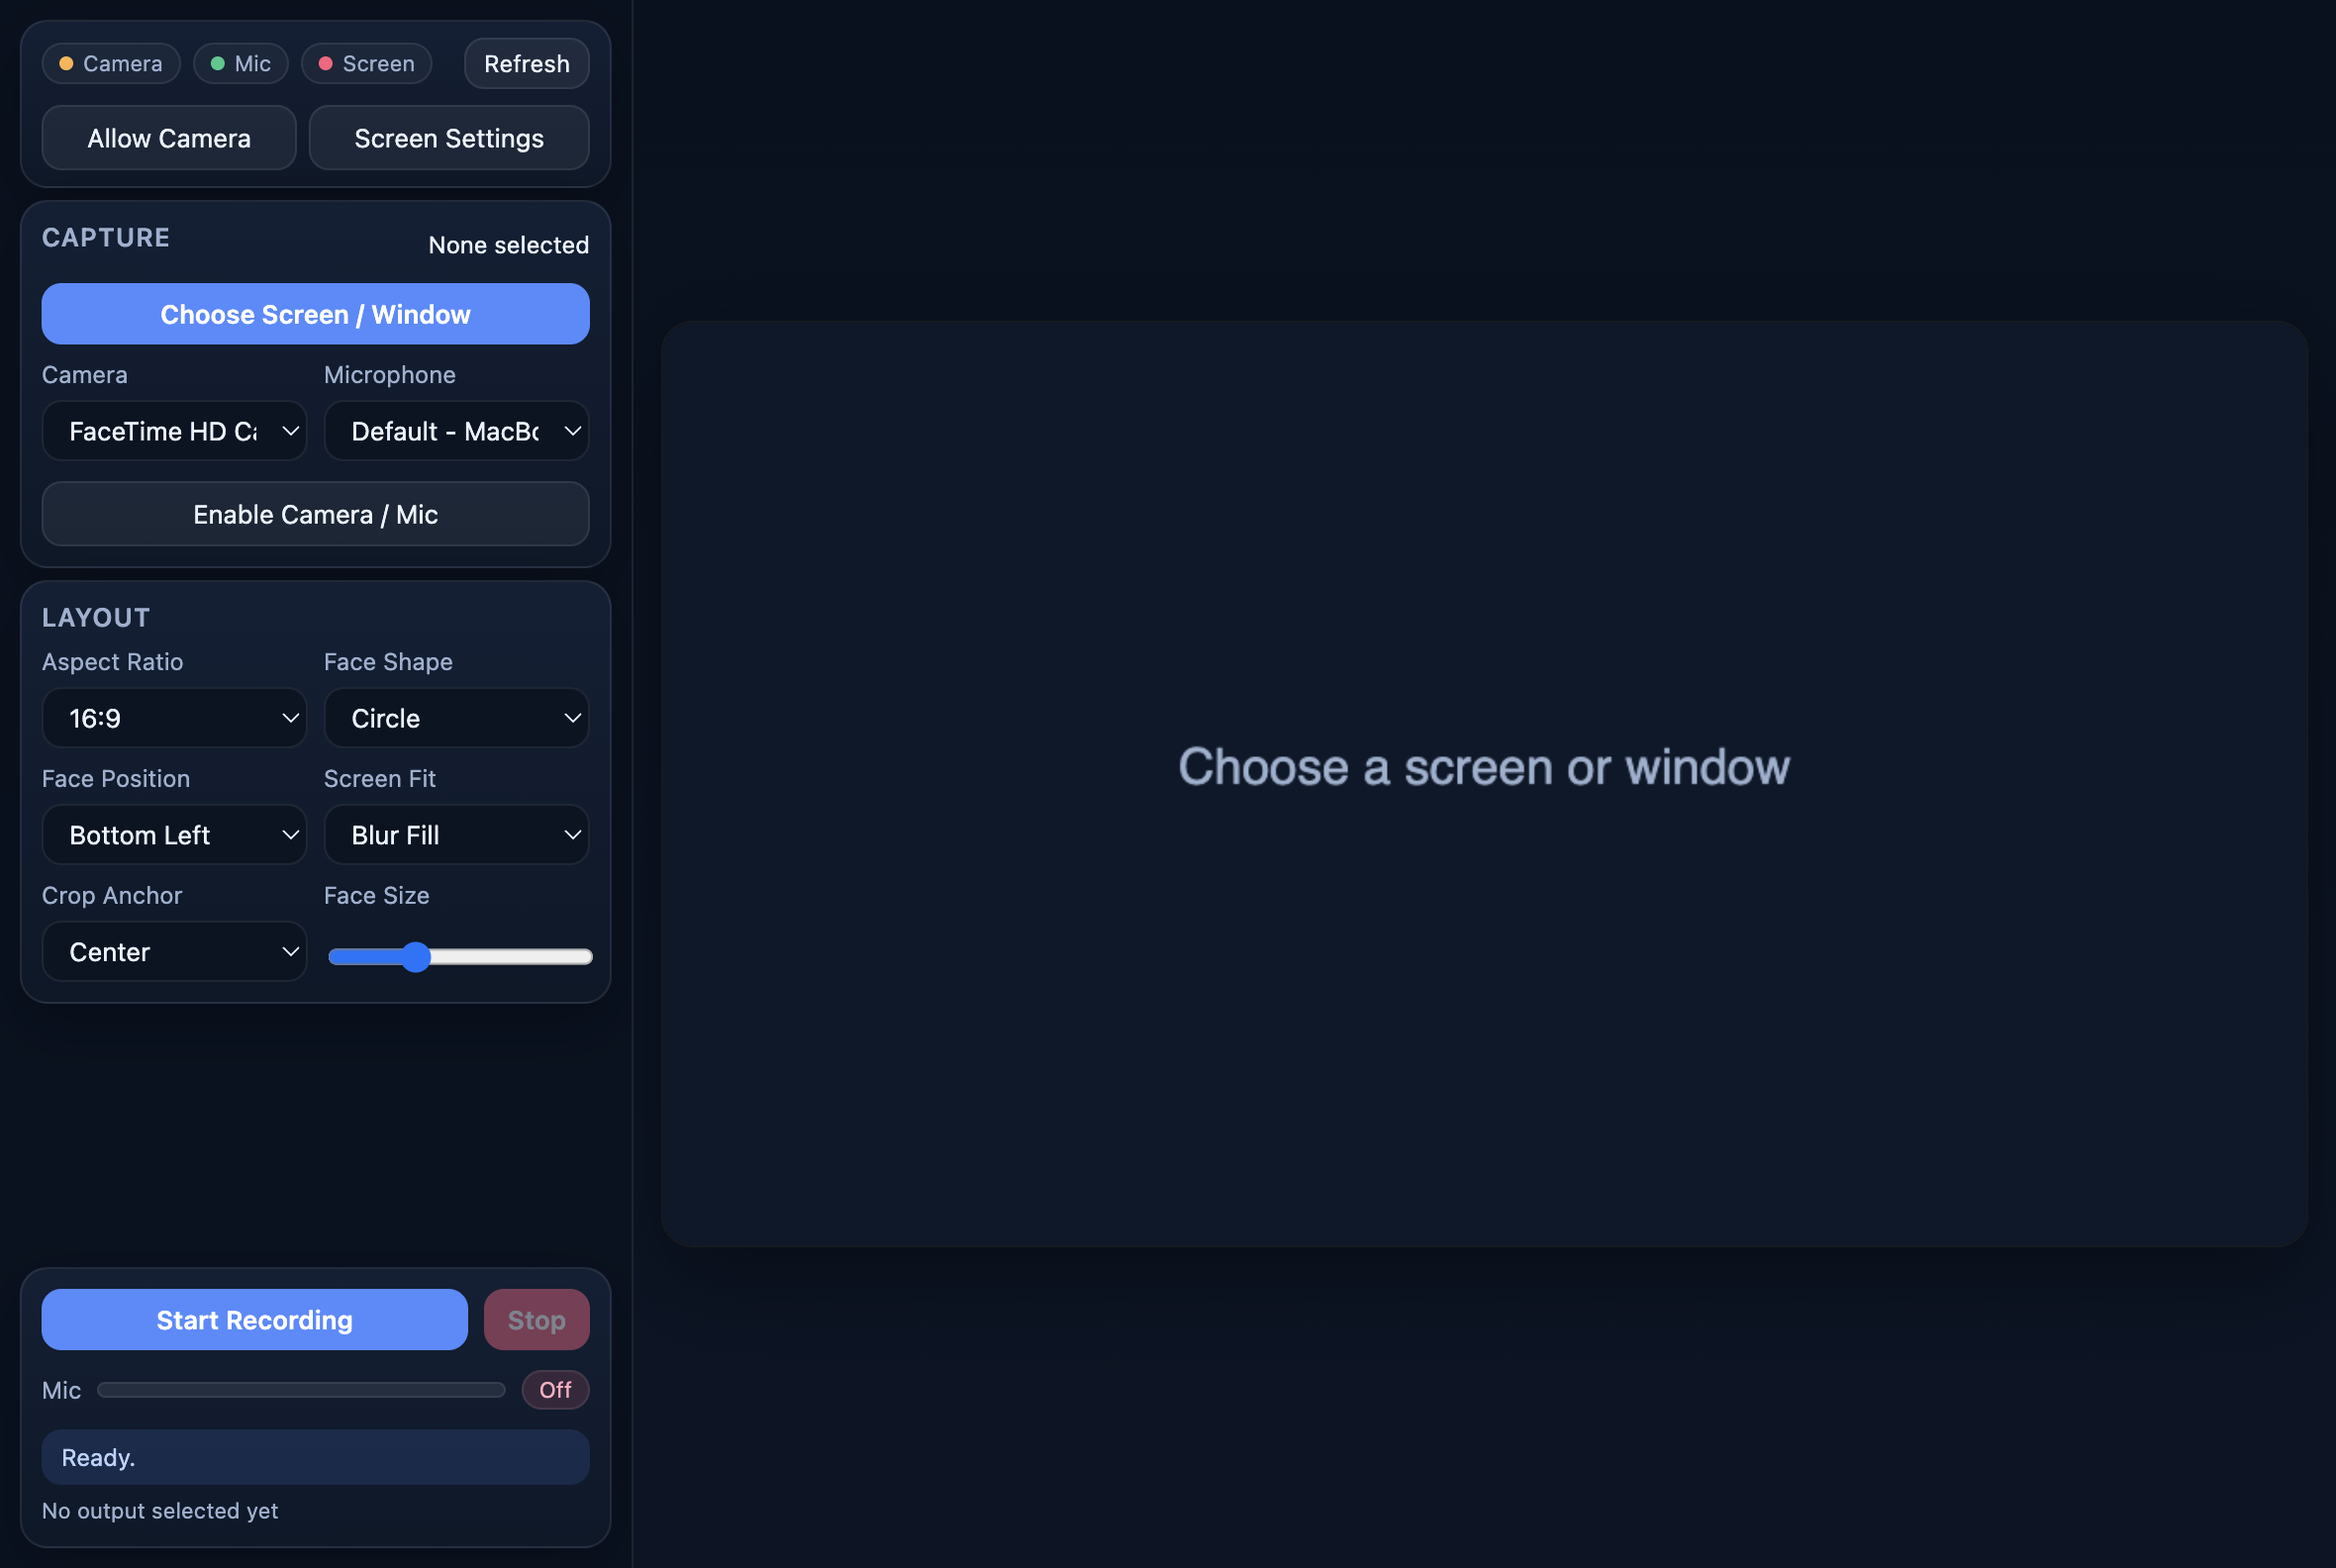
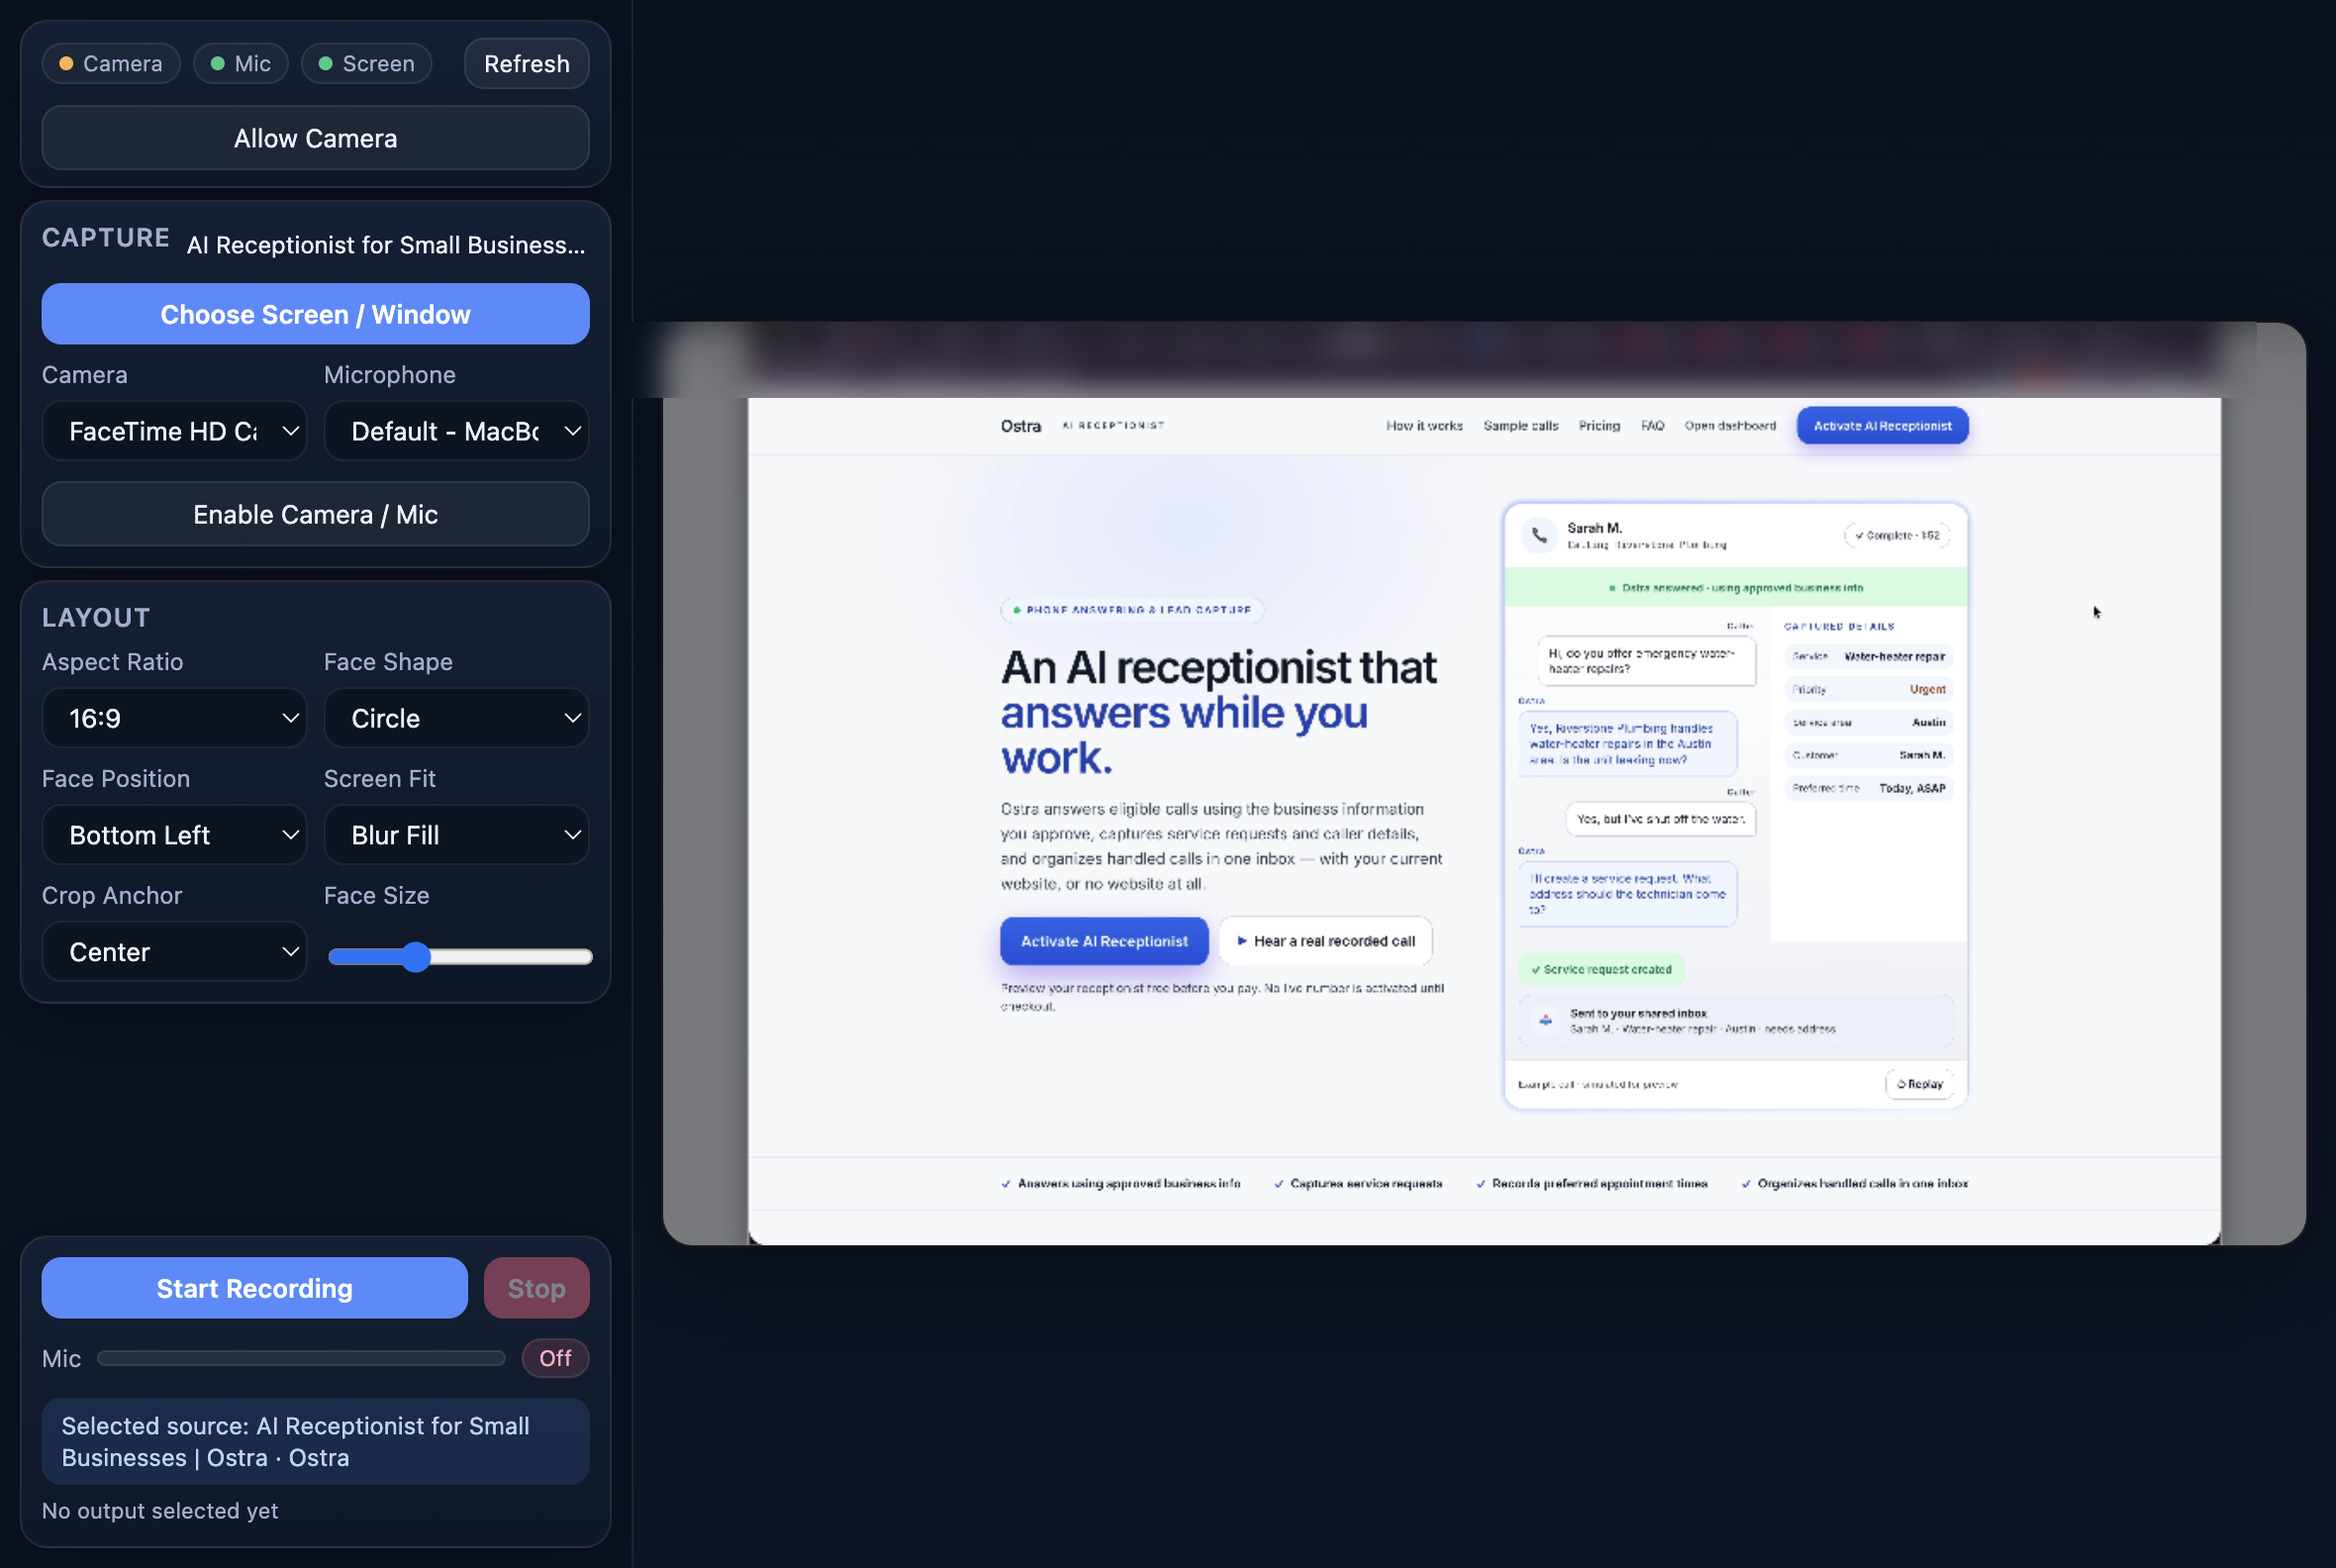
Replace README screenshot with a live capture
Shows a real source composited with blur fill instead of the empty
placeholder state. The browser chrome of the captured window is blurred
so tab titles and the URL are not published.

Also drop the status pill max-height. The two-line clamp already bounds
it, and the two together cut the second line mid-glyph on long source
names.

diff --git a/src/styles.css b/src/styles.css
@@ -340,7 +340,11 @@ button:disabled {
 }
 
 .status-pill {
-  display: block;
+  /* Clamp to two lines with an ellipsis. A long source name or ffmpeg error
+     must not grow the sidebar, but it should truncate cleanly, not get cut. */
+  display: -webkit-box;
+  -webkit-line-clamp: 2;
+  -webkit-box-orient: vertical;
   padding: 6px 10px;
   border-radius: 10px;
   background: rgba(79, 140, 255, 0.14);
@@ -348,8 +352,6 @@ button:disabled {
   font-size: 12px;
   line-height: 1.35;
   margin-bottom: 6px;
-  /* Long ffmpeg/error text must not grow the sidebar past the window. */
-  max-height: 2.8em;
   overflow: hidden;
 }
 
